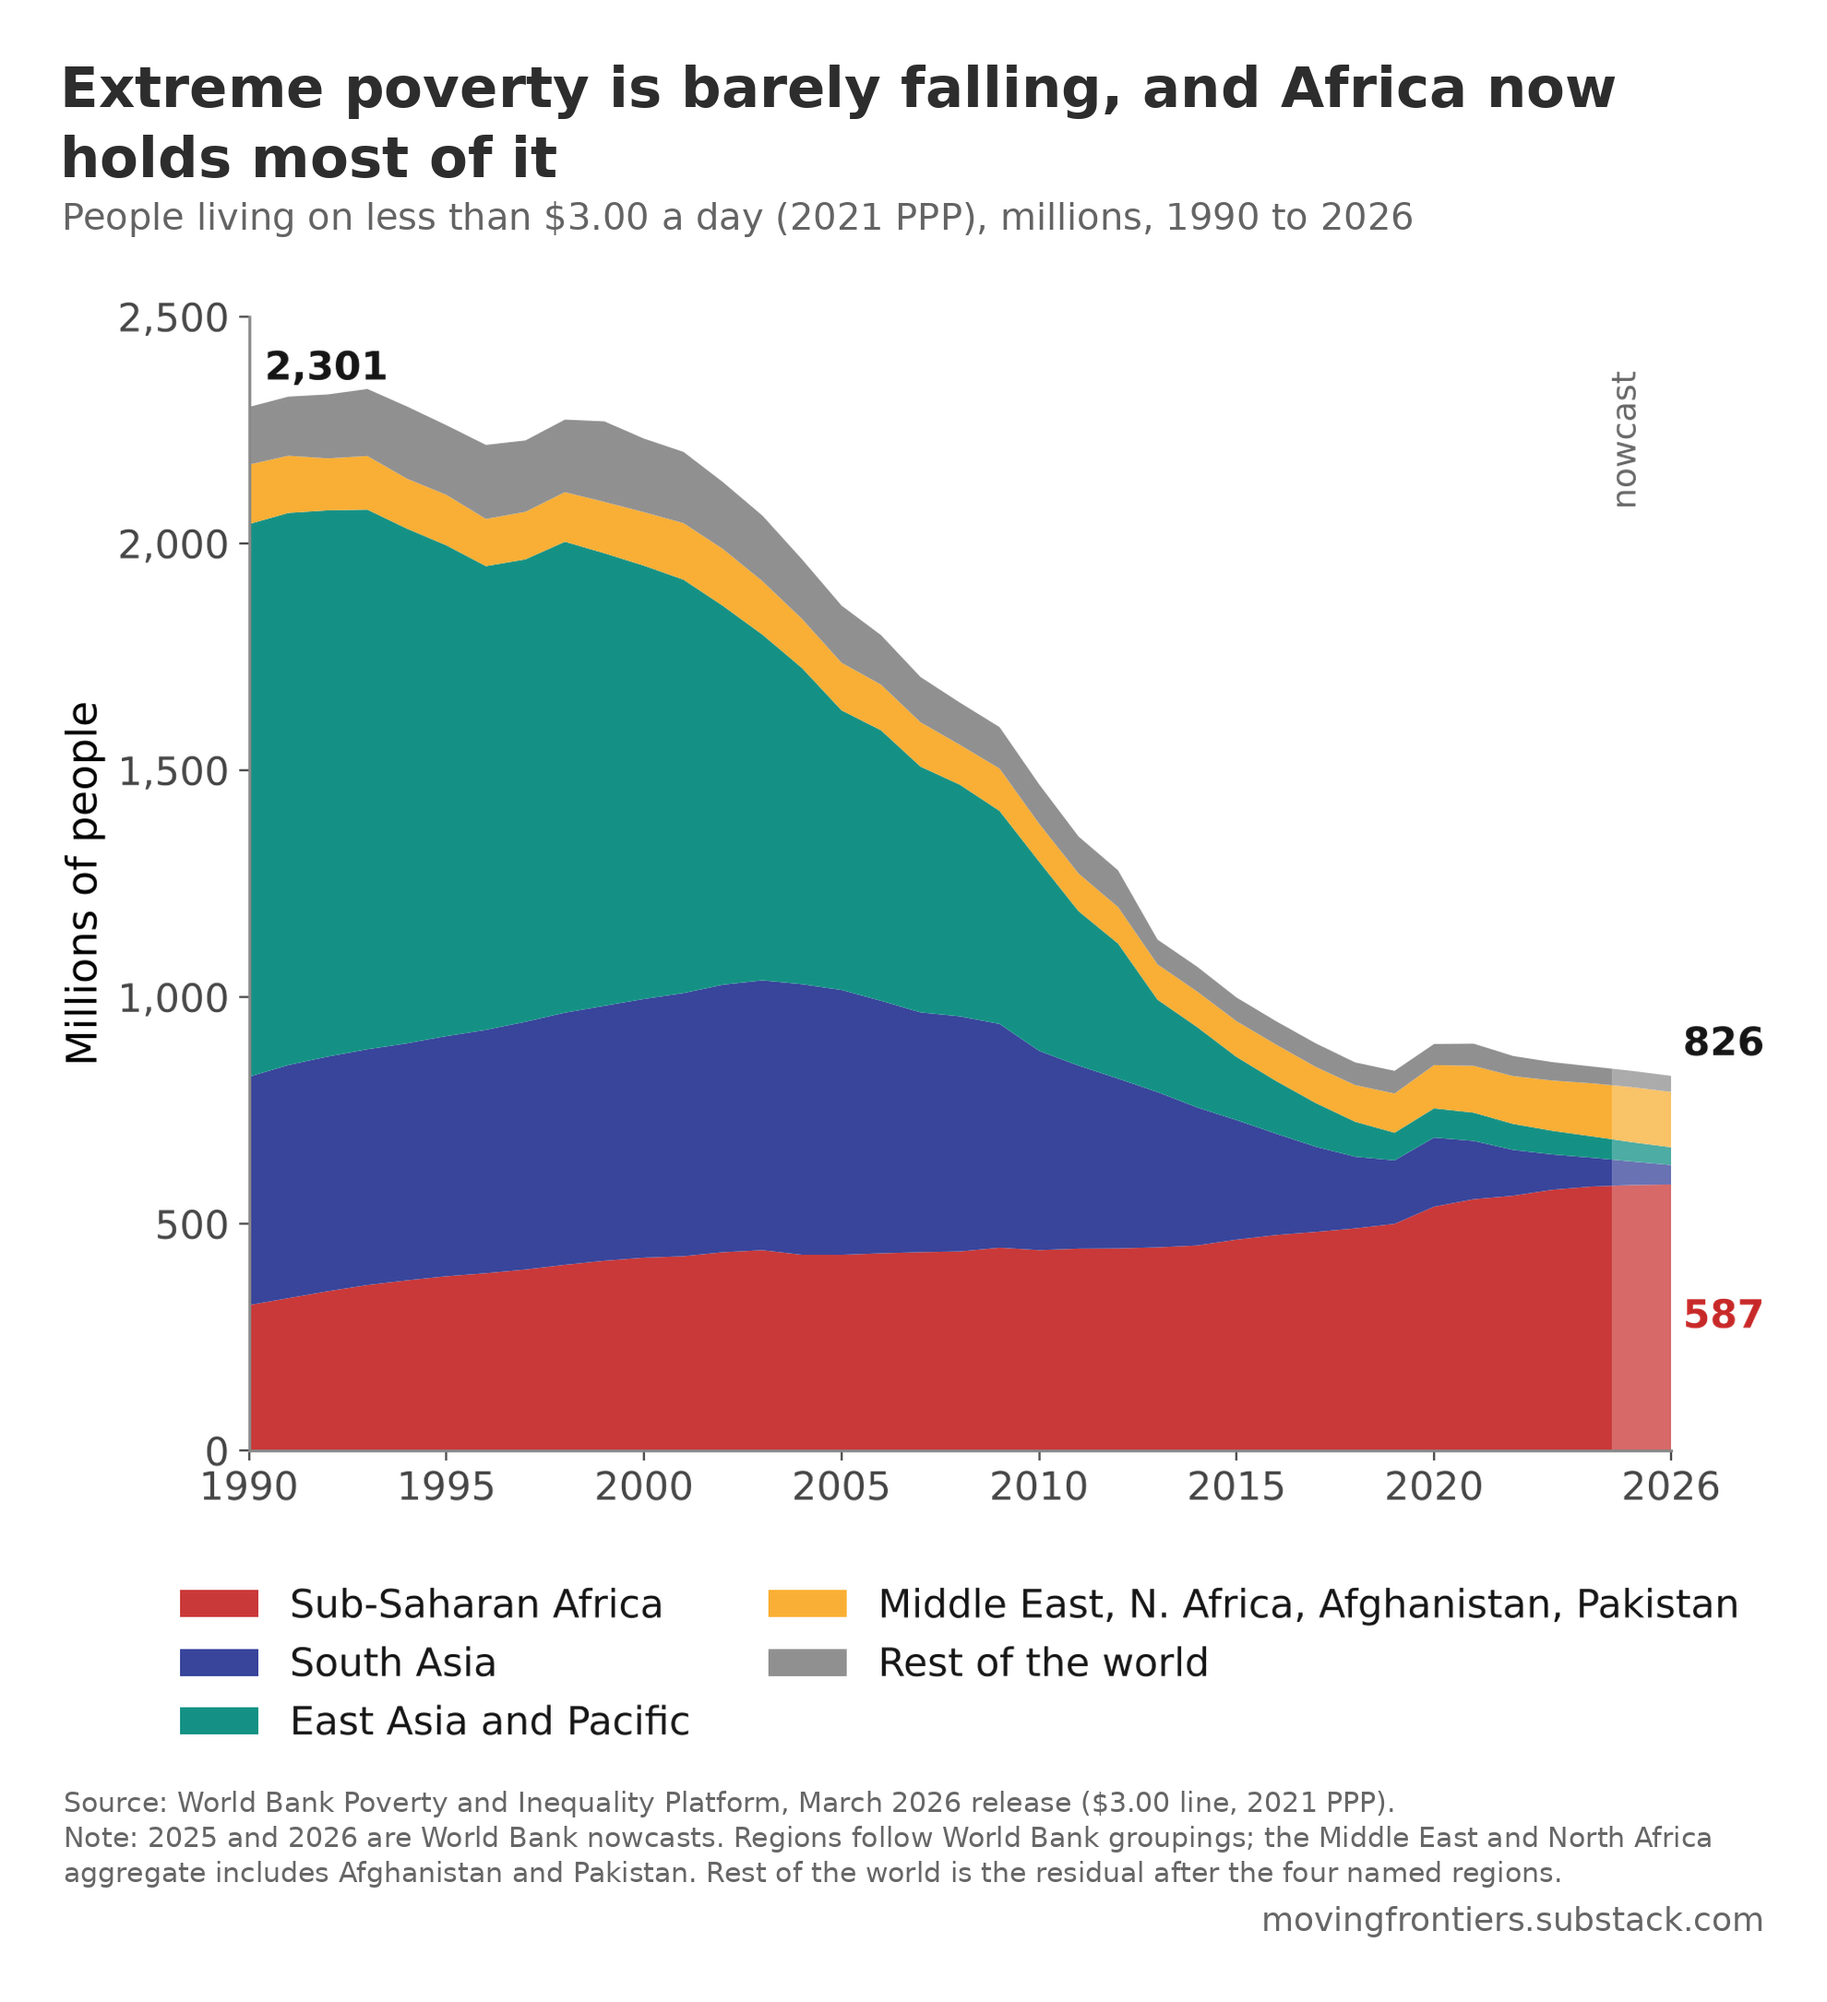
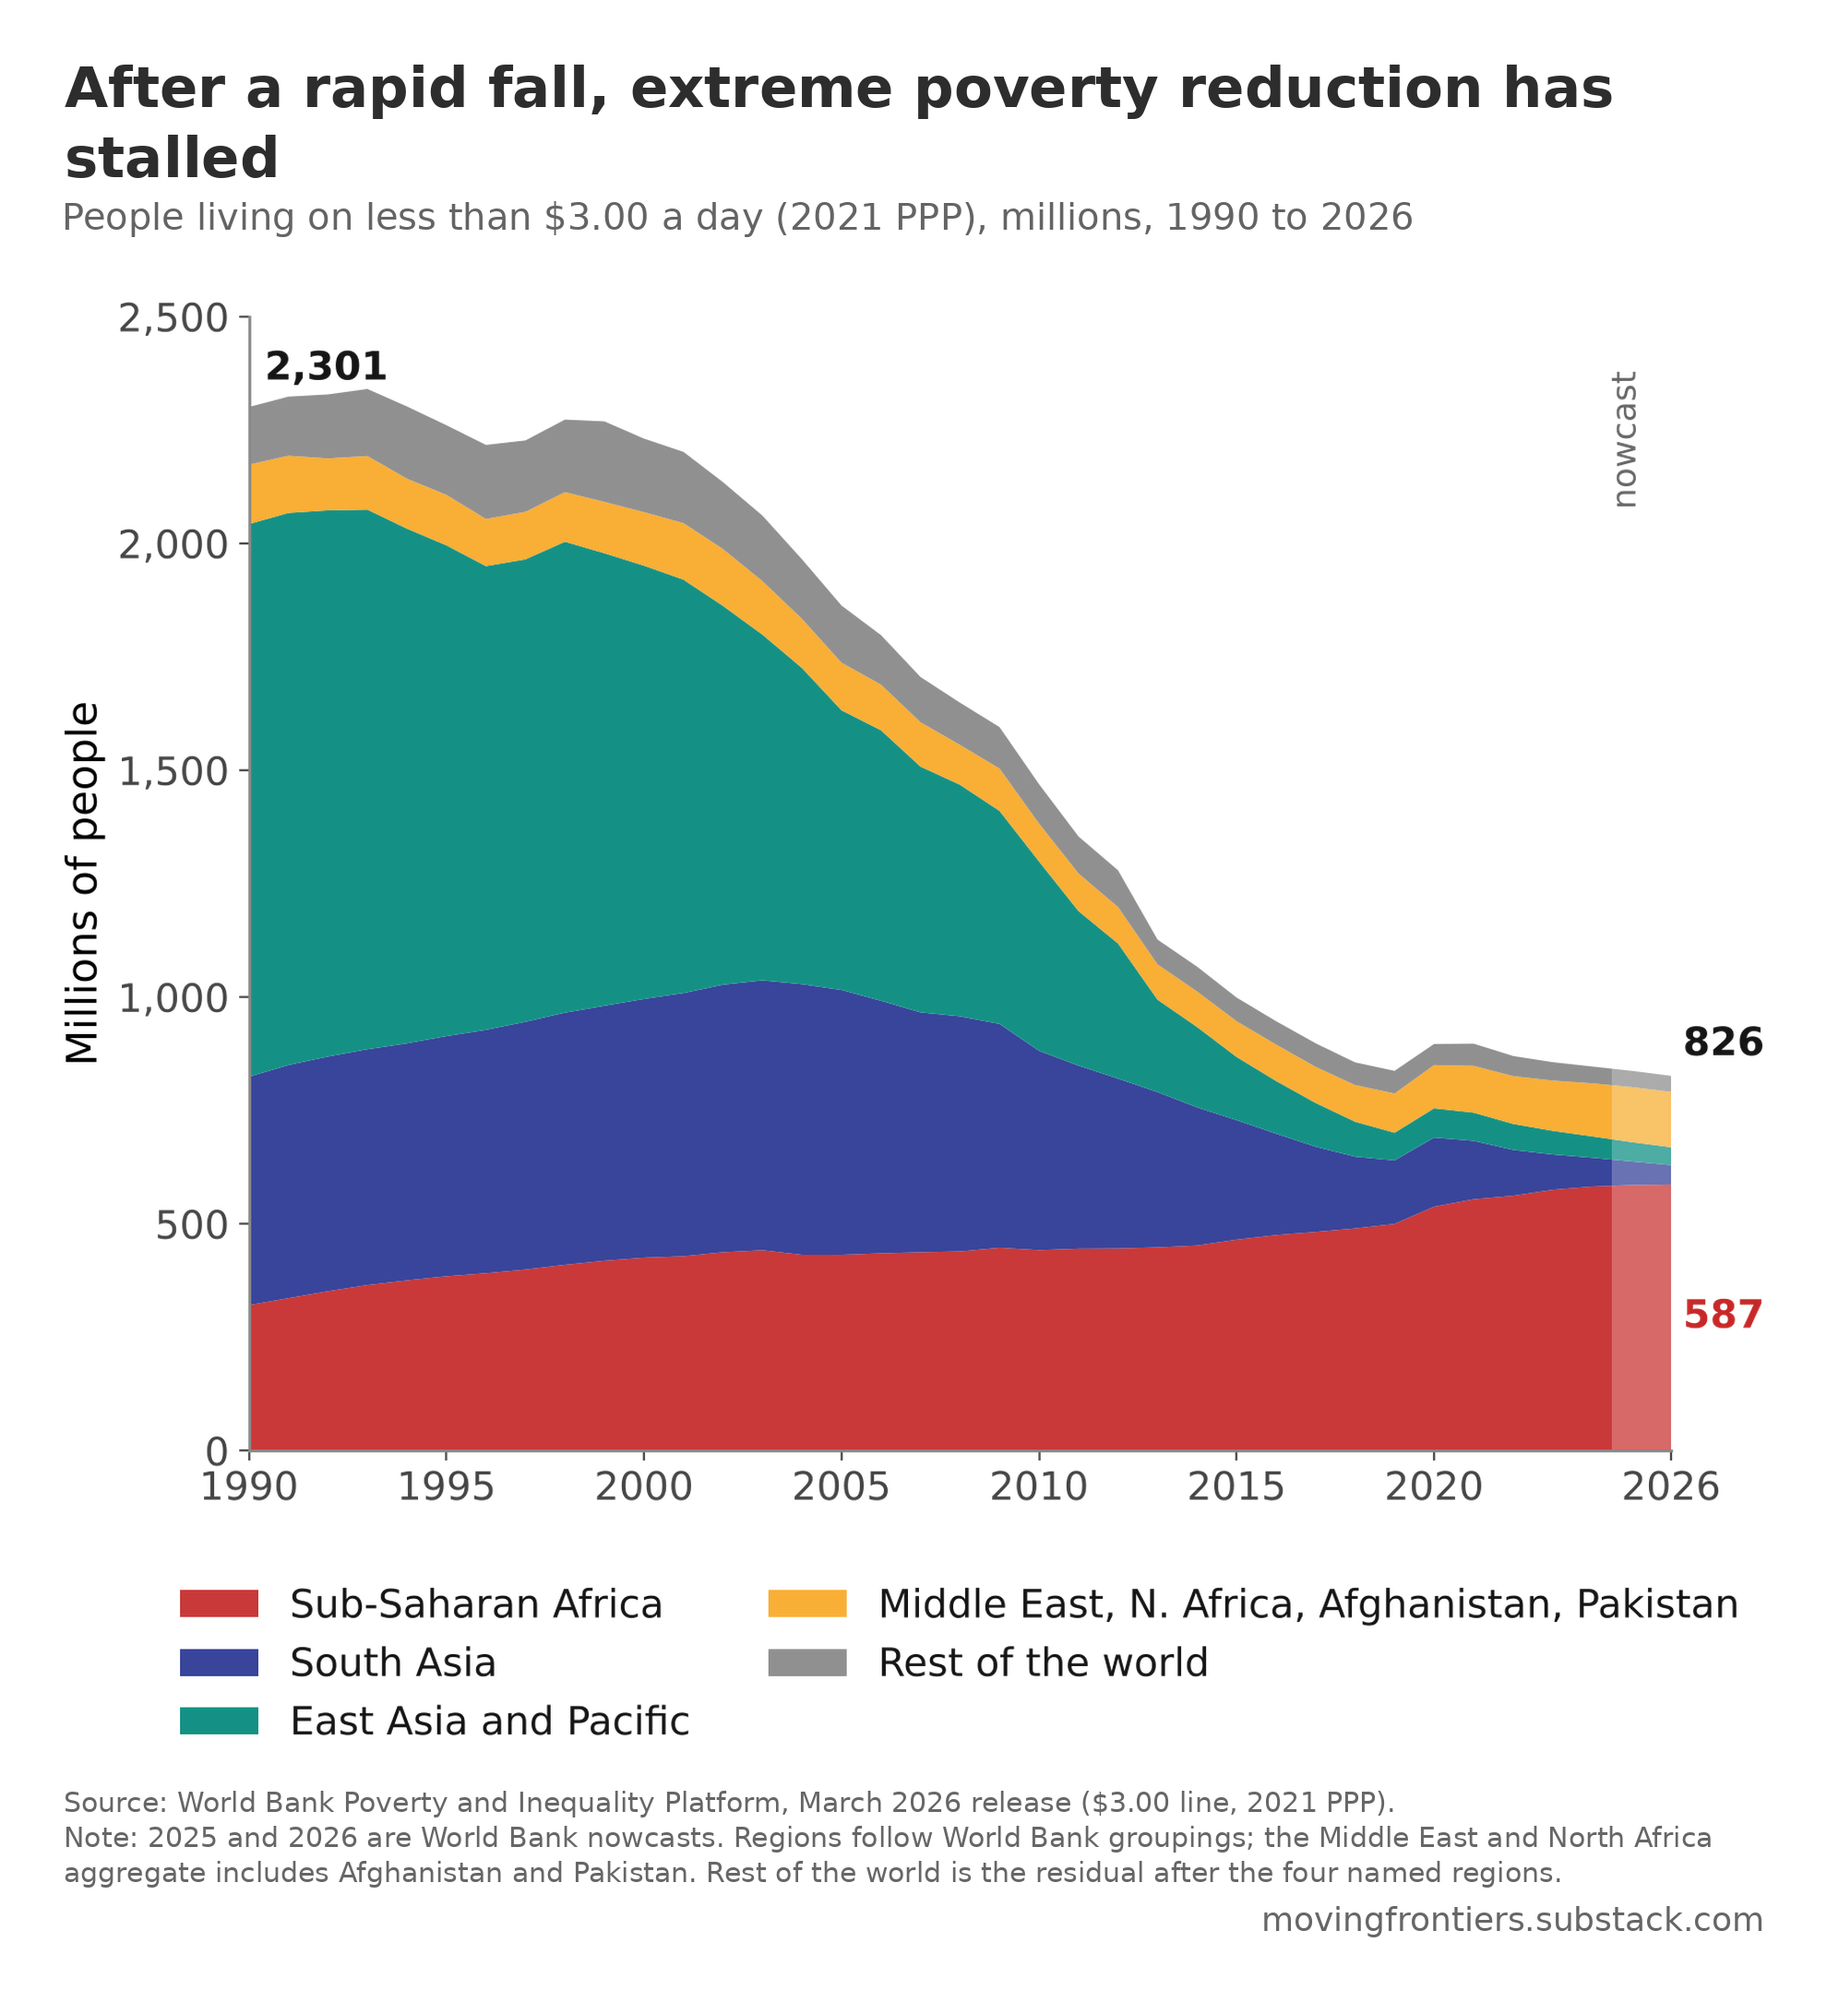
c

Changed region(s): [[0.0308, 0.0309, 0.8934, 0.0926]]

diff --git a/20261009-deafening-silence-on-the-poor/chart-1-extreme-poverty-by-region.py b/20261009-deafening-silence-on-the-poor/chart-1-extreme-poverty-by-region.py
@@ -162,7 +162,7 @@ ax.legend(loc="upper center", bbox_to_anchor=(0.5, -0.09), ncol=2, frameon=False
 ax.set_box_aspect(0.798)
 
 compose(render_plot(fig),
-        title="Extreme poverty is barely falling, and Africa now holds most of it",
+        title="After a rapid fall, extreme poverty reduction has stalled",
         subtitle="People living on less than $3.00 a day (2021 PPP), millions, 1990 to 2026",
         source="World Bank Poverty and Inequality Platform, March 2026 release ($3.00 line, 2021 PPP).",
         note="2025 and 2026 are World Bank nowcasts. Regions follow World Bank groupings; the Middle East and North Africa aggregate includes Afghanistan and Pakistan. Rest of the world is the residual after the four named regions.",

diff --git a/scripts/chart-1-extreme-poverty-by-region.py b/scripts/chart-1-extreme-poverty-by-region.py
@@ -162,7 +162,7 @@ ax.legend(loc="upper center", bbox_to_anchor=(0.5, -0.09), ncol=2, frameon=False
 ax.set_box_aspect(0.798)
 
 compose(render_plot(fig),
-        title="Extreme poverty is barely falling, and Africa now holds most of it",
+        title="After a rapid fall, extreme poverty reduction has stalled",
         subtitle="People living on less than $3.00 a day (2021 PPP), millions, 1990 to 2026",
         source="World Bank Poverty and Inequality Platform, March 2026 release ($3.00 line, 2021 PPP).",
         note="2025 and 2026 are World Bank nowcasts. Regions follow World Bank groupings; the Middle East and North Africa aggregate includes Afghanistan and Pakistan. Rest of the world is the residual after the four named regions.",
